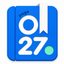
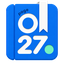
🐛 Fix: 공유 카드·브라우저 탭 심볼도 투명 사본으로 — 파란 배경 위 흰 네모 없애기
서재 스토리 카드(파란 배경) 오른쪽 위 심볼이 흰 바탕 원본이라 흰 네모로 보였다.
BrandSymbol 이 투명 사본(app-icon.png)을 그리게 바꾸고, 파비콘(app/icon.png)도
같은 사본으로 다시 만들었다.

Changed region(s): [[0.0938, 0.0312, 0.9062, 0.9688]]

diff --git a/apps/page0127/src/shared/lib/brand/BrandSymbol.tsx b/apps/page0127/src/shared/lib/brand/BrandSymbol.tsx
@@ -11,7 +11,9 @@ export const BRAND_SYMBOL = {
 /**
  * Satori 전용 심볼. 확정한 A 시안의 종이 질감과 얕은 음각을 PNG로 보존한다.
  * 로컬 원본을 data URI로 읽어 아이콘·공유 카드 생성 시 외부 요청을 피한다.
- * app/icon.png는 같은 원본을 64px로 축소한 브라우저 탭용 이미지다.
+ * 원본(page0127-symbol.png)은 연한 흰 바탕이 칠해져 있어 파란 카드 위에서 흰 네모로
+ * 보인다. 그래서 바탕을 걷어 낸 투명 사본(app-icon.png)을 그린다.
+ * app/icon.png는 같은 투명 사본을 64px로 축소한 브라우저 탭용 이미지다.
  *
  * ⚠ 모듈 최상단에서 읽지 말 것 — 처음 렌더할 때 읽는다.
  *   모든 페이지가 메타데이터(size·contentType)를 얻으려고 app/apple-icon.tsx 를
@@ -41,7 +43,7 @@ export const BrandSymbol = ({ size }: BrandSymbolProps) => (
   // Satori는 next/image 대신 원본 img의 data URI를 렌더링한다.
   // eslint-disable-next-line @next/next/no-img-element
   <img
-    src={readPng('page0127-symbol.png')}
+    src={readPng('app-icon.png')}
     alt='page0127.'
     width={size}
     height={size}
